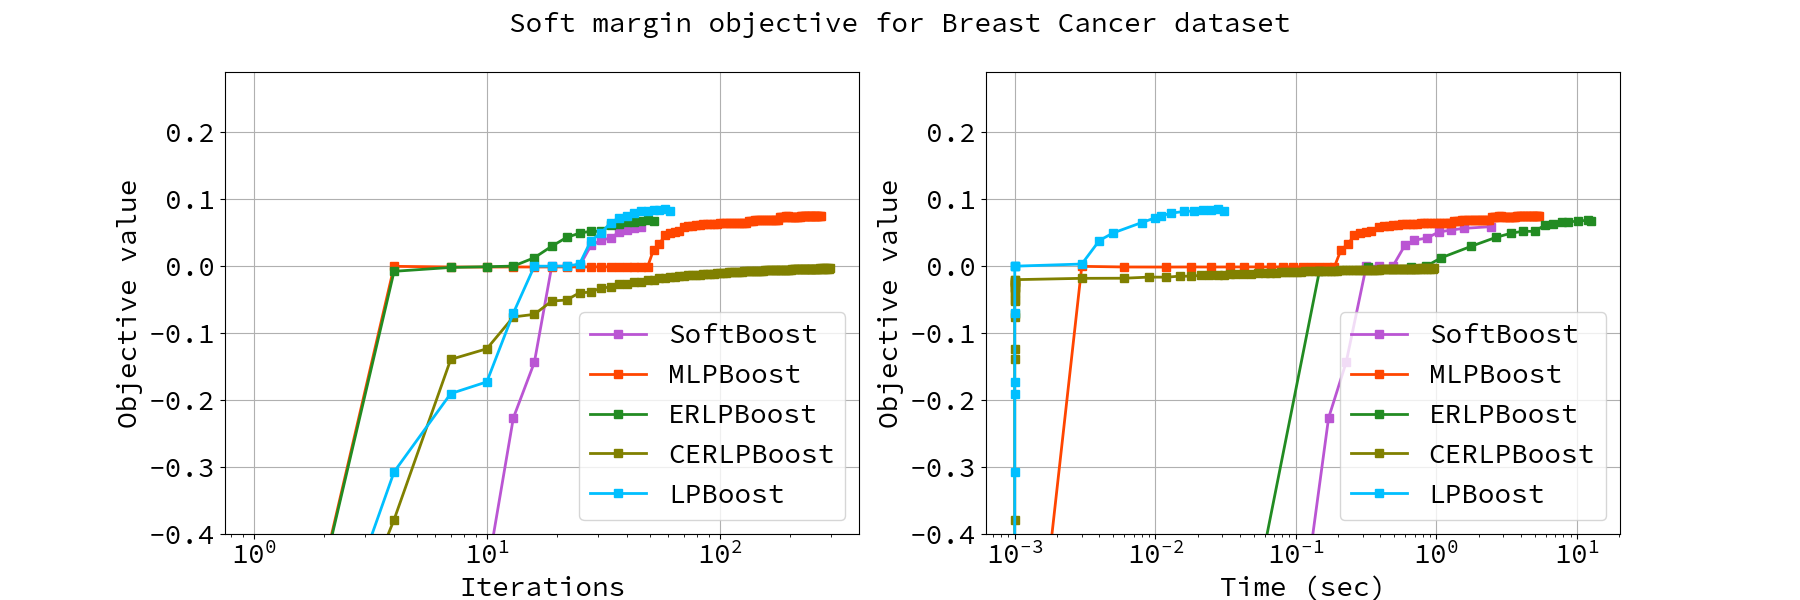
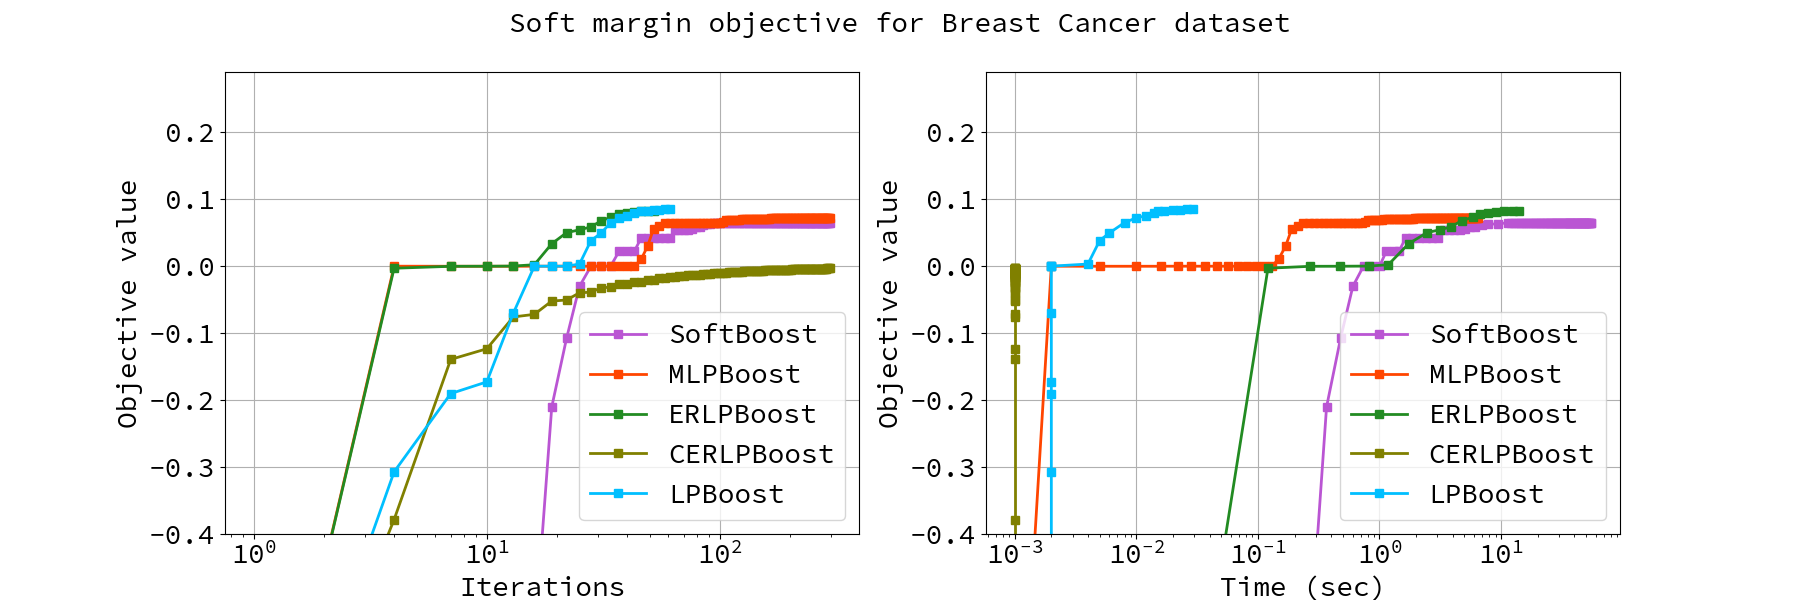
Update figure.
This update add the plot for GraphSepBoost (deeppink color)

diff --git a/img/example/src/main.rs b/img/example/src/main.rs
@@ -8,7 +8,7 @@ use miniboosts::common::objective_functions::{
 // use miniboosts::booster::perturbed_lpboost::PerturbedLPBoost;
 
 
-fn zero_one_loss<H>(sample: &Sample, f: &CombinedHypothesis<H>)
+fn zero_one_loss<H>(sample: &Sample, f: &H)
     -> f64
     where H: Classifier
 {
@@ -24,7 +24,9 @@ fn zero_one_loss<H>(sample: &Sample, f: &CombinedHypothesis<H>)
         / n_sample
 }
 
-const TOLERANCE: f64 = 0.01;
+const TOLERANCE: f64 = 0.001;
+// const TIME_LIMIT: u128 = 300_000; // 5 minutes as millisecond.
+const TIME_LIMIT: u128 = 120_000; // 2 minutes as millisecond.
 
 
 fn main() {
@@ -49,36 +51,36 @@ fn main() {
         .set_target("class");
 
 
-    // Run AdaBoost
-    let objective = SoftMarginObjective::new(1.0);
-    println!("Running AdaBoost");
-    let booster = AdaBoost::init(&train)
-        .force_quit_at(300)
-        .tolerance(TOLERANCE);
-    let tree = DecisionTreeBuilder::new(&train)
-        .max_depth(2)
-        .criterion(Criterion::Entropy)
-        .build();
-    let mut logger = Logger::new(
-        booster, tree, objective, zero_one_loss, &train, &test
-    );
-    let _ = logger.run("adaboost.csv");
+    // // Run AdaBoost
+    // let objective = SoftMarginObjective::new(1.0);
+    // println!("Running AdaBoost");
+    // let booster = AdaBoost::init(&train)
+    //     .force_quit_at(300)
+    //     .tolerance(TOLERANCE);
+    // let tree = DecisionTreeBuilder::new(&train)
+    //     .max_depth(1)
+    //     .criterion(Criterion::Entropy)
+    //     .build();
+    // let mut logger = Logger::new(
+    //     booster, tree, objective, zero_one_loss, &train, &test
+    // ).time_limit_as_millis(TIME_LIMIT);
+    // let _ = logger.run("adaboost.csv");
 
 
-    // Run AdaBoostV
-    let objective = SoftMarginObjective::new(1.0);
-    println!("Running AdaBoostV");
-    let booster = AdaBoostV::init(&train)
-        .force_quit_at(300)
-        .tolerance(TOLERANCE);
-    let tree = DecisionTreeBuilder::new(&train)
-        .max_depth(2)
-        .criterion(Criterion::Entropy)
-        .build();
-    let mut logger = Logger::new(
-        booster, tree, objective, zero_one_loss, &train, &test
-    );
-    let _ = logger.run("adaboostv.csv");
+    // // Run AdaBoostV
+    // let objective = SoftMarginObjective::new(1.0);
+    // println!("Running AdaBoostV");
+    // let booster = AdaBoostV::init(&train)
+    //     .force_quit_at(300)
+    //     .tolerance(TOLERANCE);
+    // let tree = DecisionTreeBuilder::new(&train)
+    //     .max_depth(1)
+    //     .criterion(Criterion::Entropy)
+    //     .build();
+    // let mut logger = Logger::new(
+    //     booster, tree, objective, zero_one_loss, &train, &test
+    // ).time_limit_as_millis(TIME_LIMIT);
+    // let _ = logger.run("adaboostv.csv");
 
 
     // // Run TotalBoost
@@ -87,130 +89,145 @@ fn main() {
     // let booster = TotalBoost::init(&train)
     //     .tolerance(TOLERANCE);
     // let tree = DecisionTreeBuilder::new(&train)
-    //     .max_depth(2)
+    //     .max_depth(1)
     //     .criterion(Criterion::Entropy)
     //     .build();
     // let mut logger = Logger::new(
     //     booster, tree, objective, zero_one_loss, &train, &test
-    // );
+    // ).time_limit_as_millis(TIME_LIMIT);
     // let _ = logger.run("totalboost.csv");
 
 
-    // // Run SmoothBoost
-    // // `gamma` is the weak-learner guarantee.
-    // // For this case, the following holds;
-    // // for any distribution, the weak learner returns a hypothesis
-    // // such that the edge is at least 0.006.
-    // // This value `0.006` is derived from the LPBoost.
-    // let objective = SoftMarginObjective::new(nu);
-    // println!("Running SmoothBoost");
-    // let booster = SmoothBoost::init(&train)
-    //     .tolerance(TOLERANCE)
-    //     .gamma(0.006);
-    // let tree = DecisionTreeBuilder::new(&train)
-    //     .max_depth(2)
-    //     .criterion(Criterion::Entropy)
-    //     .build();
-    // let mut logger = Logger::new(
-    //     booster, tree, objective, zero_one_loss, &train, &test
-    // );
-    // let _ = logger.run("smoothboost.csv");
-
-
-    // Run SoftBoost
+    // Run SmoothBoost
+    // `gamma` is the weak-learner guarantee.
+    // For this case, the following holds;
+    // for any distribution, the weak learner returns a hypothesis
+    // such that the edge is at least 0.006.
+    // This value `0.006` is derived from the LPBoost.
     let objective = SoftMarginObjective::new(nu);
-    println!("Running SoftBoost");
-    let booster = SoftBoost::init(&train)
+    println!("Running SmoothBoost");
+    let booster = SmoothBoost::init(&train)
         .tolerance(TOLERANCE)
-        .nu(nu);
+        .gamma(0.006);
     let tree = DecisionTreeBuilder::new(&train)
-        .max_depth(2)
+        .max_depth(1)
         .criterion(Criterion::Entropy)
         .build();
     let mut logger = Logger::new(
         booster, tree, objective, zero_one_loss, &train, &test
-    );
-    let _ = logger.run("softboost.csv");
+    ).time_limit_as_millis(TIME_LIMIT);
+    let _ = logger.run("smoothboost.csv");
 
 
-    // Run LPBoost
-    let objective = SoftMarginObjective::new(nu);
-    println!("Running LPBoost");
-    let booster = LPBoost::init(&train)
-        .tolerance(TOLERANCE)
-        .nu(nu);
-    let tree = DecisionTreeBuilder::new(&train)
-        .max_depth(2)
-        .criterion(Criterion::Entropy)
-        .build();
-    let mut logger = Logger::new(
-        booster, tree, objective, zero_one_loss, &train, &test
-    );
-    let _ = logger.run("lpboost.csv");
-
-
-    // // Run Perturbed LPBoost
+    // // Run SoftBoost
     // let objective = SoftMarginObjective::new(nu);
-    // println!("Running Perturbed LPBoost");
-    // let booster = PerturbedLPBoost::init(&train)
+    // println!("Running SoftBoost");
+    // let booster = SoftBoost::init(&train)
     //     .tolerance(TOLERANCE)
     //     .nu(nu);
     // let tree = DecisionTreeBuilder::new(&train)
-    //     .max_depth(2)
+    //     .max_depth(1)
     //     .criterion(Criterion::Entropy)
     //     .build();
     // let mut logger = Logger::new(
     //     booster, tree, objective, zero_one_loss, &train, &test
-    // );
-    // let _ = logger.run("stochastic-lpboost.csv");
+    // ).time_limit_as_millis(TIME_LIMIT);
+    // let _ = logger.run("softboost.csv");
 
 
-    // Run ERLPBoost
-    let objective = SoftMarginObjective::new(nu);
-    println!("Running ERLPBoost");
-    let booster = ERLPBoost::init(&train)
-        .tolerance(TOLERANCE)
-        .nu(nu);
-    let tree = DecisionTreeBuilder::new(&train)
-        .max_depth(2)
-        .criterion(Criterion::Entropy)
-        .build();
-    let mut logger = Logger::new(
-        booster, tree, objective, zero_one_loss, &train, &test
-    );
-    let _ = logger.run("erlpboost.csv");
+    // // Run LPBoost
+    // let objective = SoftMarginObjective::new(nu);
+    // println!("Running LPBoost");
+    // let booster = LPBoost::init(&train)
+    //     .tolerance(TOLERANCE)
+    //     .nu(nu);
+    // let tree = DecisionTreeBuilder::new(&train)
+    //     .max_depth(1)
+    //     .criterion(Criterion::Entropy)
+    //     .build();
+    // let mut logger = Logger::new(
+    //     booster, tree, objective, zero_one_loss, &train, &test
+    // ).time_limit_as_millis(TIME_LIMIT);
+    // let _ = logger.run("lpboost.csv");
 
 
-    // Run MLPBoost
-    let objective = SoftMarginObjective::new(nu);
-    println!("Running MLPBoost");
-    let booster = MLPBoost::init(&train)
-        .tolerance(TOLERANCE)
-        // .frank_wolfe(FWType::LineSearch)
-        .nu(nu);
-    let tree = DecisionTreeBuilder::new(&train)
-        .max_depth(2)
-        .criterion(Criterion::Entropy)
-        .build();
-    let mut logger = Logger::new(
-        booster, tree, objective, zero_one_loss, &train, &test
-    );
-    let _ = logger.run("mlpboost.csv");
+    // // // Run Perturbed LPBoost
+    // // let objective = SoftMarginObjective::new(nu);
+    // // println!("Running Perturbed LPBoost");
+    // // let booster = PerturbedLPBoost::init(&train)
+    // //     .tolerance(TOLERANCE)
+    // //     .nu(nu);
+    // // let tree = DecisionTreeBuilder::new(&train)
+    // //     .max_depth(1)
+    // //     .criterion(Criterion::Entropy)
+    // //     .build();
+    // // let mut logger = Logger::new(
+    // //     booster, tree, objective, zero_one_loss, &train, &test
+    // // ).time_limit_as_millis(TIME_LIMIT);
+    // // let _ = logger.run("stochastic-lpboost.csv");
 
 
-    // Run Corrective ERLPBoost
-    let objective = SoftMarginObjective::new(nu);
-    println!("Running CERLPBoost");
-    let booster = CERLPBoost::init(&train)
-        .tolerance(TOLERANCE)
-        .fw_type(FWType::Classic)
-        .nu(nu);
-    let tree = DecisionTreeBuilder::new(&train)
-        .max_depth(2)
-        .criterion(Criterion::Entropy)
-        .build();
-    let mut logger = Logger::new(
-        booster, tree, objective, zero_one_loss, &train, &test
-    );
-    let _ = logger.run("cerlpboost.csv");
+    // // Run ERLPBoost
+    // let objective = SoftMarginObjective::new(nu);
+    // println!("Running ERLPBoost");
+    // let booster = ERLPBoost::init(&train)
+    //     .tolerance(TOLERANCE)
+    //     .nu(nu);
+    // let tree = DecisionTreeBuilder::new(&train)
+    //     .max_depth(1)
+    //     .criterion(Criterion::Entropy)
+    //     .build();
+    // let mut logger = Logger::new(
+    //     booster, tree, objective, zero_one_loss, &train, &test
+    // ).time_limit_as_millis(TIME_LIMIT);
+    // let _ = logger.run("erlpboost.csv");
+
+
+    // // Run MLPBoost
+    // let objective = SoftMarginObjective::new(nu);
+    // println!("Running MLPBoost");
+    // let booster = MLPBoost::init(&train)
+    //     .tolerance(TOLERANCE)
+    //     // .frank_wolfe(FWType::LineSearch)
+    //     .nu(nu);
+    // let tree = DecisionTreeBuilder::new(&train)
+    //     .max_depth(1)
+    //     .criterion(Criterion::Entropy)
+    //     .build();
+    // let mut logger = Logger::new(
+    //     booster, tree, objective, zero_one_loss, &train, &test
+    // ).time_limit_as_millis(TIME_LIMIT);
+    // let _ = logger.run("mlpboost.csv");
+
+
+    // // Run Corrective ERLPBoost
+    // let objective = SoftMarginObjective::new(nu);
+    // println!("Running CERLPBoost");
+    // let booster = CERLPBoost::init(&train)
+    //     .tolerance(TOLERANCE)
+    //     .fw_type(FWType::Classic)
+    //     .nu(nu);
+    // let tree = DecisionTreeBuilder::new(&train)
+    //     .max_depth(1)
+    //     .criterion(Criterion::Entropy)
+    //     .build();
+    // let mut logger = Logger::new(
+    //     booster, tree, objective, zero_one_loss, &train, &test
+    // ).time_limit_as_millis(TIME_LIMIT);
+    // let _ = logger.run("cerlpboost.csv");
+
+
+    // // Run Graph Separation Boosting
+    // let objective = SoftMarginObjective::new(nu);
+    // println!("Running GraphSepBoost");
+    // let booster = GraphSepBoost::init(&train)
+    //     .tolerance(TOLERANCE);
+    // let tree = DecisionTreeBuilder::new(&train)
+    //     .max_depth(1)
+    //     .criterion(Criterion::Entropy)
+    //     .build();
+    // let mut logger = Logger::new(
+    //     booster, tree, objective, zero_one_loss, &train, &test
+    // ).time_limit_as_millis(TIME_LIMIT);
+    // let _ = logger.run("graphsepboost.csv");
 }
